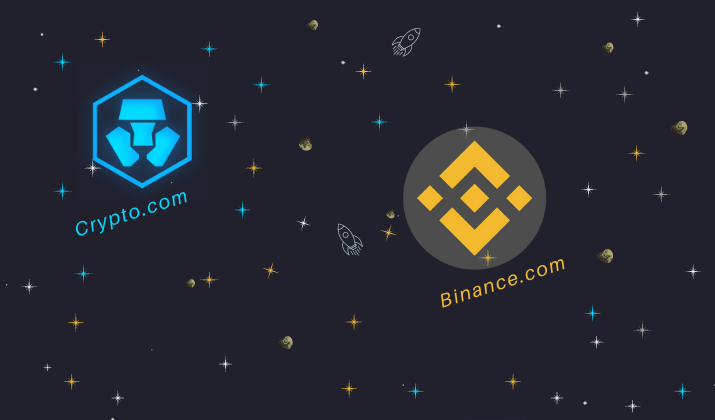
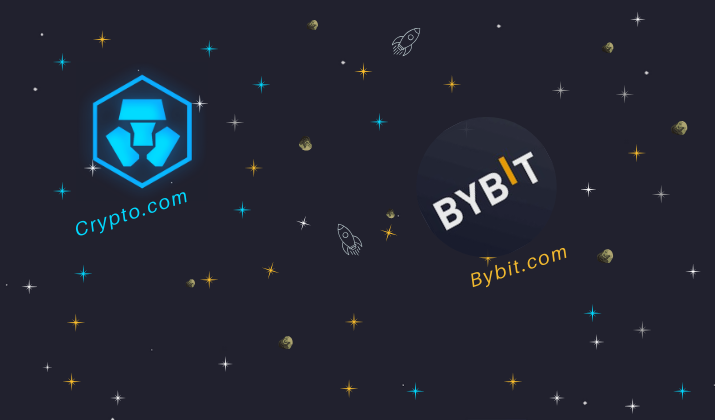
fixed

Changed region(s): [[0.5538, 0.2786, 0.8, 0.7429], [0.5538, 0.0929, 0.5846, 0.1238], [0.4923, 0.5571, 0.5231, 0.5881]]

diff --git a/website/sweden/templates/index.html b/website/sweden/templates/index.html
@@ -252,7 +252,7 @@ krypto framtiden? Vilket krypto ska man köpa? Få svar på dina frågor och all
 					<li class="mt-3">
 						Det finns många olika sorters aktörer inom krypto och tyvärr finns där även en del bedrägeribolag
 						som man måste se upp med. Innan du bestämmer dig för en <a href="/crypto-exchange">Crypto Exchange</a> ta reda på så
-						mycket du kan om bolaget. Vi själva på CryptoViking använder Binance.com och Crypto.com
+						mycket du kan om bolaget. Vi själva på CryptoViking använder Bybit.com och Crypto.com
 						och som vi hittills är nöjda med.
 					</li>
 
@@ -264,7 +264,7 @@ krypto framtiden? Vilket krypto ska man köpa? Få svar på dina frågor och all
 				</ul>
 				<p>
 					Vi vill än en gång uppmana till noggrann research innan du väljer kryptomäklare. Om du blir
-					kund hos Crypto.com eller Binance.com via vår webbplats får vi en bonus för det.
+					kund hos Crypto.com eller Bybit.com via vår webbplats får vi en bonus för det.
 				</p>
 
 			</div>
@@ -292,10 +292,10 @@ krypto framtiden? Vilket krypto ska man köpa? Få svar på dina frågor och all
 					<a href="https://crypto.com/app/kd26d8skzr" target="_blank" class="m-4 affiliate-crypto"> 
 						Crypto.com 
 					</a>
-					<a href="https://www.binance.com/en/register?ref=JTZNNQHD" target="_blank" 
-					class="affiliate-binance" 
+					<a href="https://www.bybit.com/invite?ref=8NQY5" target="_blank" 
+					class="affiliate-crypto" 
 					style="text-decoration:none;" class="btn btn-secondary"> 
-						Binance.com 
+						Bybit.com 
 					</a>
 				</div>
 				<label style="font-size:0.68rem; font-style:italic; color:#F47174;" class=" mt-2 ">
@@ -408,14 +408,14 @@ krypto framtiden? Vilket krypto ska man köpa? Få svar på dina frågor och all
 				<div class="crypto-exchanges-container" style="position:relative;">
 					<p style="position:absolute; left:70px; top:10px; font-size:0.9rem; font-style:italic; font-weight:bold; letter-spacing:2px; color:gray;"> Besök </p>
 					<a 
-						href="https://www.binance.com/en/register?ref=JTZNNQHD" 
+						href="https://www.bybit.com/invite?ref=8NQY5" 
 						target="_blank" 
-						class="affiliate-binance mt-2"
+						class="affiliate-crypto mt-2"
 						style="font-style:italic;transform: rotate(-8deg); font-size:1.2rem;" 
 					>
-						<span>Binance.com </span>
+						<span>Bybit.com </span>
 
-						<img src="{% static	'images/crypto-exchanges/binance.png' %}"
+						<img src="{% static	'images/crypto-exchanges/byBit-logo.png' %}"
 							style="width:50px; opacity:0.85" 
 						/>
 					</a>

diff --git a/website/sweden/templates/components/crypto-exchange/banners/Exchange-Banner-350-330.html b/website/sweden/templates/components/crypto-exchange/banners/Exchange-Banner-350-330.html
@@ -109,7 +109,14 @@
 		<li class="mt-2">
 			<a href="/handla/cardano" style="font-weight:normal;"> Cardano </a>
 		</li>
+		<li class="mt-2">
+			<a href="/handla/solana" style="font-weight:normal;"> Solana </a>
+		</li>
+		<li class="mt-2">
+			<a href="/handla/the-sandbox" style="font-weight:normal;"> Sandbox </a>
+		</li>
 	</ul>
+	<br>
 	<img 
 		src="{% static 'images/mascot/viking-under-tree.png' %}"
 		style="width:250px; position:absolute; bottom:1px; right:0px;" 

diff --git a/website/sweden/views.py b/website/sweden/views.py
@@ -21,6 +21,7 @@ def articles(request):
 	news = paginator.get_page(page)
 	# nums = "a" * news.paginator.num_pages
 	crypto_exchanges = Article.objects.all().filter(category='CEX').order_by('-created_at')[:4]
+	print(crypto_exchanges)
 	context = {
 		# 'latest_news':latest_news,
 		'news':news,
